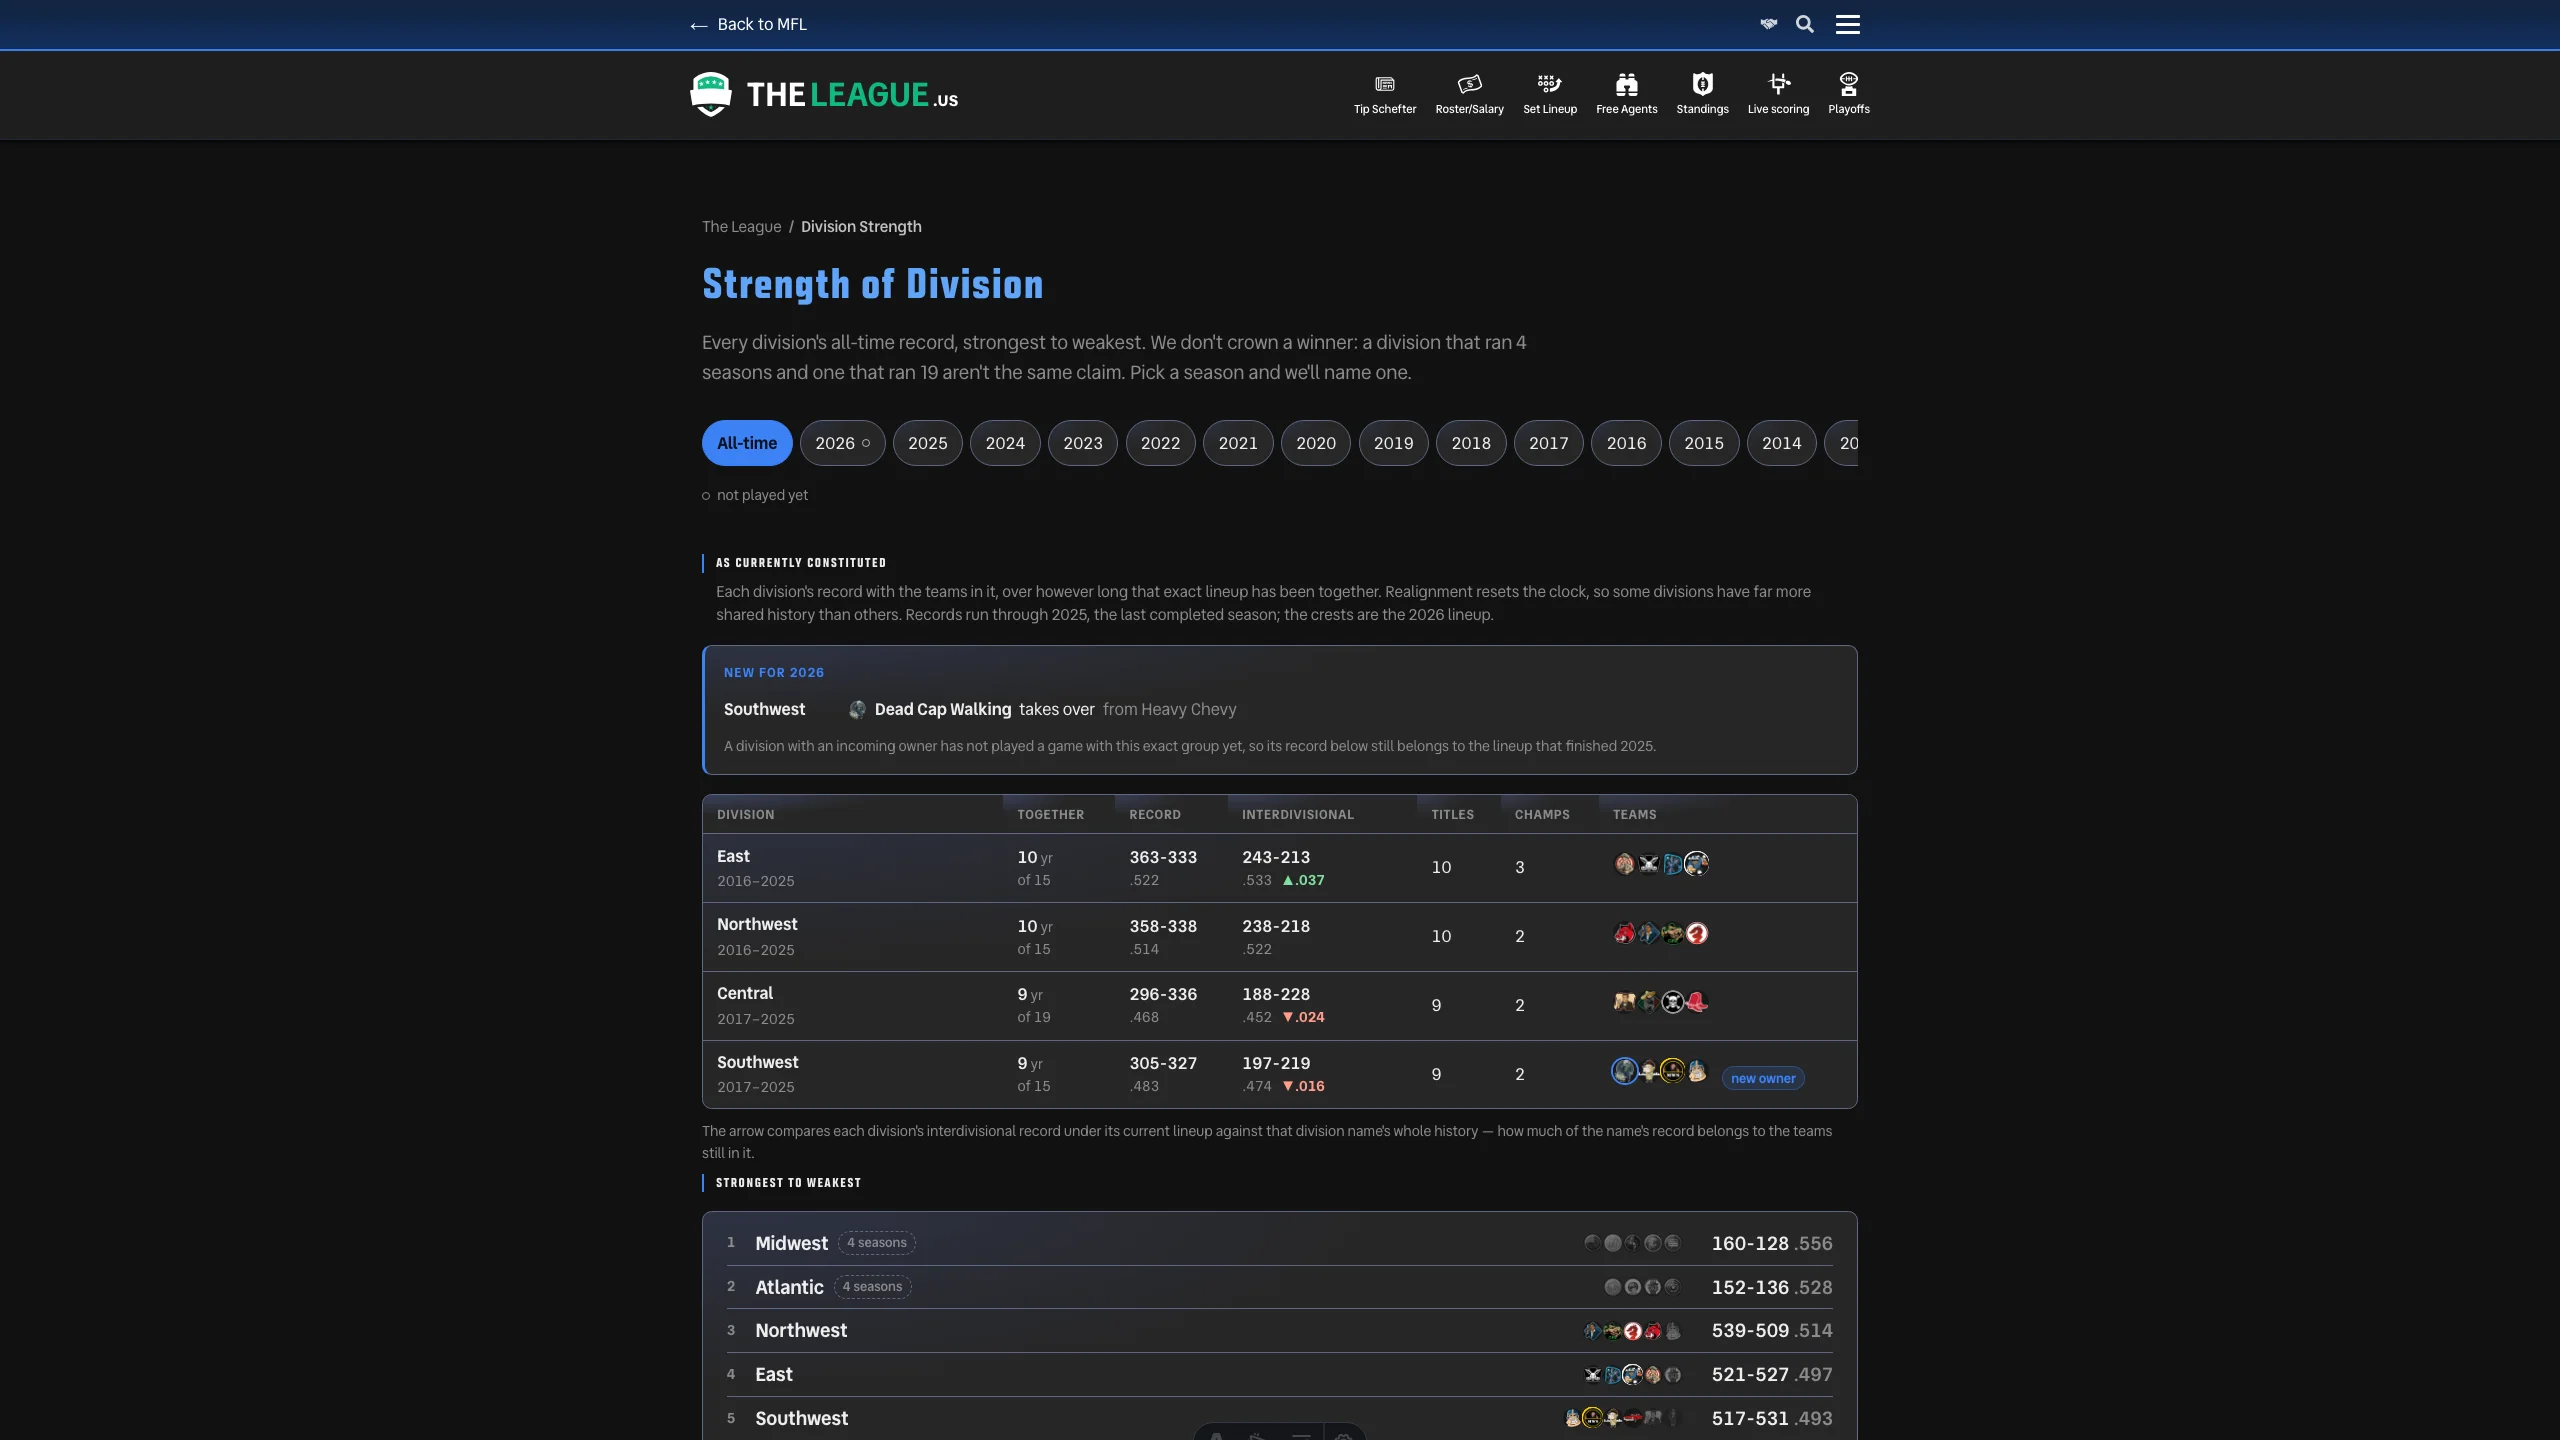
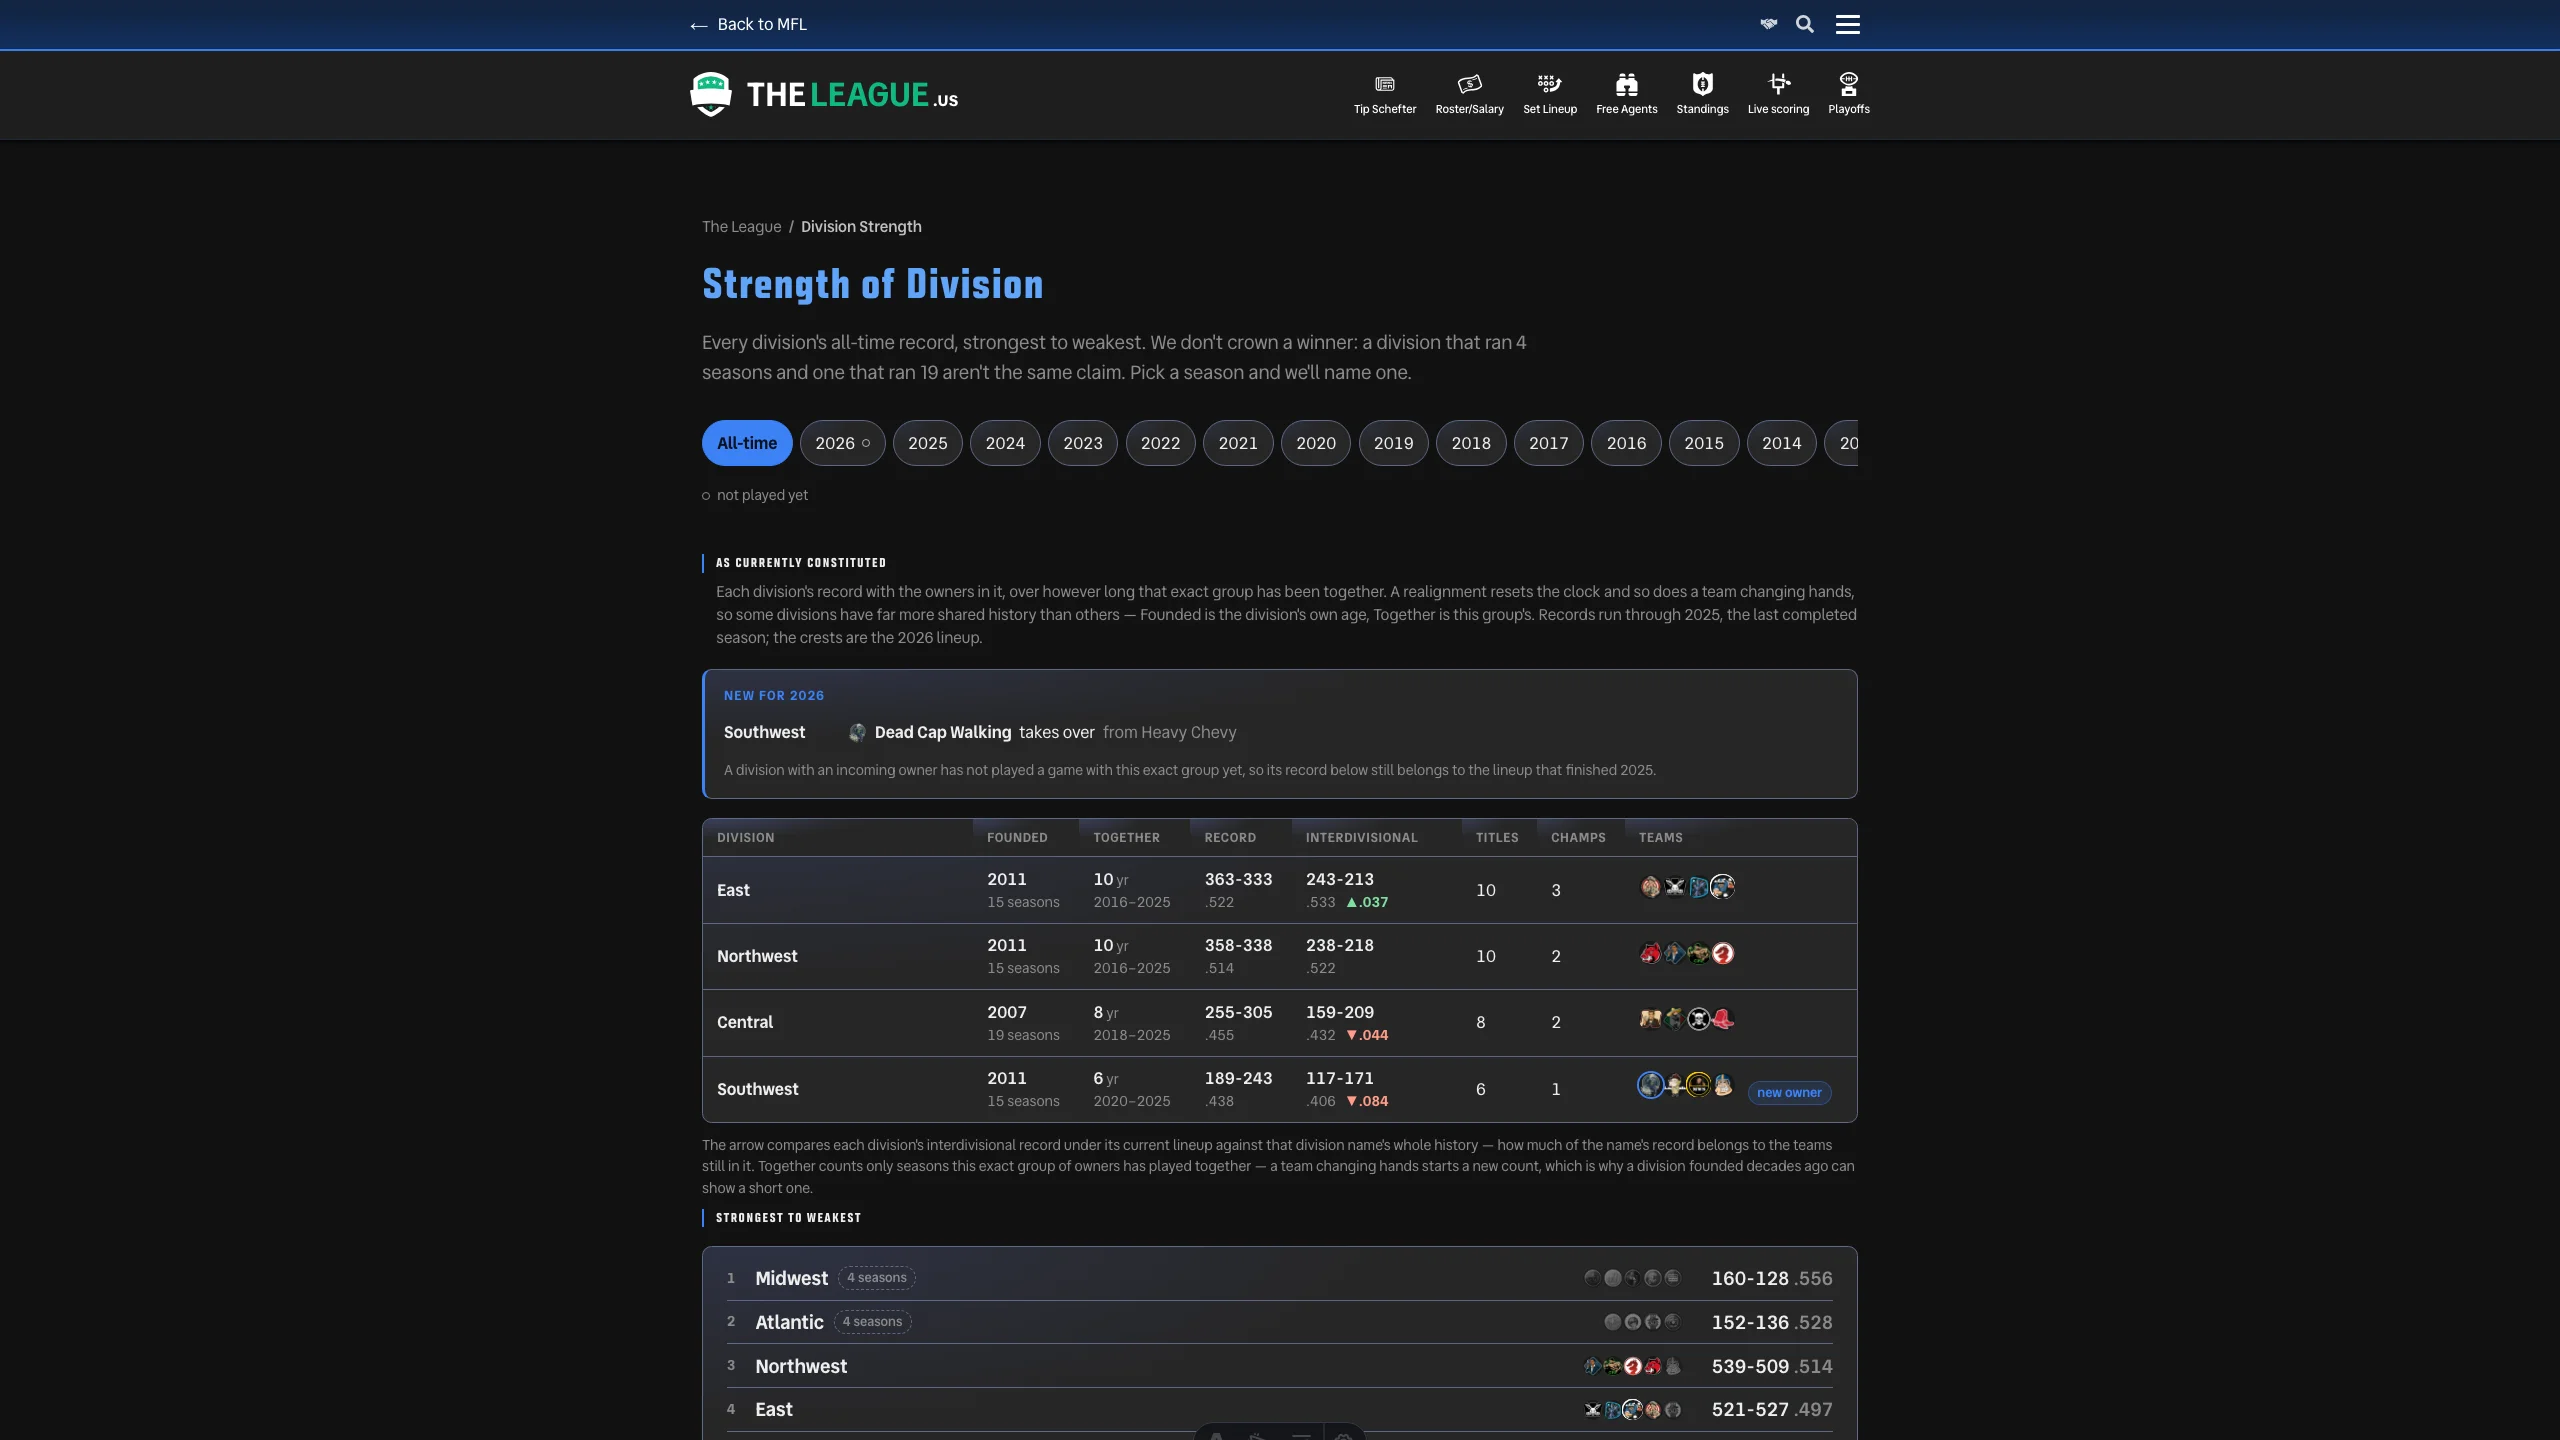
fix: re-derive the era board's copy for owner-keyed eras
#619 landed the cross-division era board while this branch was open, and it
reads membershipEras — which now break on takeovers too. Nothing about the
board's math needed changing, but every sentence describing it did:

- the board's own copy said "a realignment ends the run"; a change of hands
  ends it as well, and the absent-division note now says "no group of owners"
- the launch article quoted rows that no longer exist. Qualifying eras go 9→6
  in TheLeague and 6→4 in the AFL, the Atlantic joins the absent list, and the
  division appearing more than once is the Central (three times), not the
  Northwest (twice)
- the Together span reads 2025, not 2025–2025, for a one-season group

Screenshots re-captured against the merged page; the insight entry for the
minimum-era-length rule carries a postscript with the new counts.

Changed region(s): [[0.25, 0.4062, 0.7188, 1.0], [0.5938, 0.8438, 0.7188, 1.0]]

diff --git a/docs/claude/insights/features/division-strength.md b/docs/claude/insights/features/division-strength.md
@@ -196,6 +196,13 @@ membership, chosen from how the underlying churn actually distributes rather
 than picked as a round number. Say what the minimum excluded, by name, in the
 copy under the ranking.
 
+**Postscript (same day):** every count in this entry was measured against
+franchise-keyed eras. Re-keying them on OWNERS (see the last entry in this file)
+cut the board to 6 rows in TheLeague and 4 in the AFL, added the Atlantic to the
+absent list, and made the Central — not the Northwest — the division that
+appears more than once. The floor itself survived the change unaltered, which is
+the argument for stating it as a parameter.
+
 ## 2026-08-25 - Two `auto` margins do not make a column
 
 **Context:** Adding team crests to the all-time ranking rows, which already
@@ -238,7 +245,7 @@ argument for saying the span out loud, not for inflating it.
 **Evidence:** `seatKey()` in `compute-division-strength.mjs` is now the era key
 itself (franchise + sorted ownerIds, so a pure rename does not move it, matching
 `upcoming`'s `newOwner` rule). Eras got shorter and more numerous — TheLeague's
-Southwest 2→8 lineups, the AFL's West 6→18 — and two things absorb that:
+Southwest 3→8 lineups, the AFL's West 10→18 — and two things absorb that:
 
 - a **Founded** column carrying the division's own `firstYear` / `seasons`, so
   a 1-year Together on a 23-year-old division reads as information rather than
@@ -252,6 +259,16 @@ Southwest 2→8 lineups, the AFL's West 6→18 — and two things absorb that:
 era, that the era's own `members` are that set, and that adjacent eras differ
 on OWNERS — identical franchise ids across an era boundary is now legitimate,
 because that is exactly what a takeover looks like.
+
+It also moves the era board that landed on main the same afternoon (see the
+`ERA_MIN_SEASONS` entry above). Qualifying eras fall from 9 to 6 in TheLeague
+and 6 to 4 in the AFL; TheLeague's Atlantic joins the Midwest and Pacific in the
+absent list (its one 4-season franchise lineup was two owner groups), and the
+division that now appears more than once is the Central, three times, not the
+Northwest twice. Both the board's copy and the launch article's quoted examples
+had to be re-derived — a reminder that generated-looking prose naming specific
+rows is coupled to the segmentation key, and reads as confidently wrong the
+moment the key changes.
 
 **Recommendation:** When a derived span is segmented on identity, write down
 WHICH identity — a slot, a name, or a person — and check every label rendered
